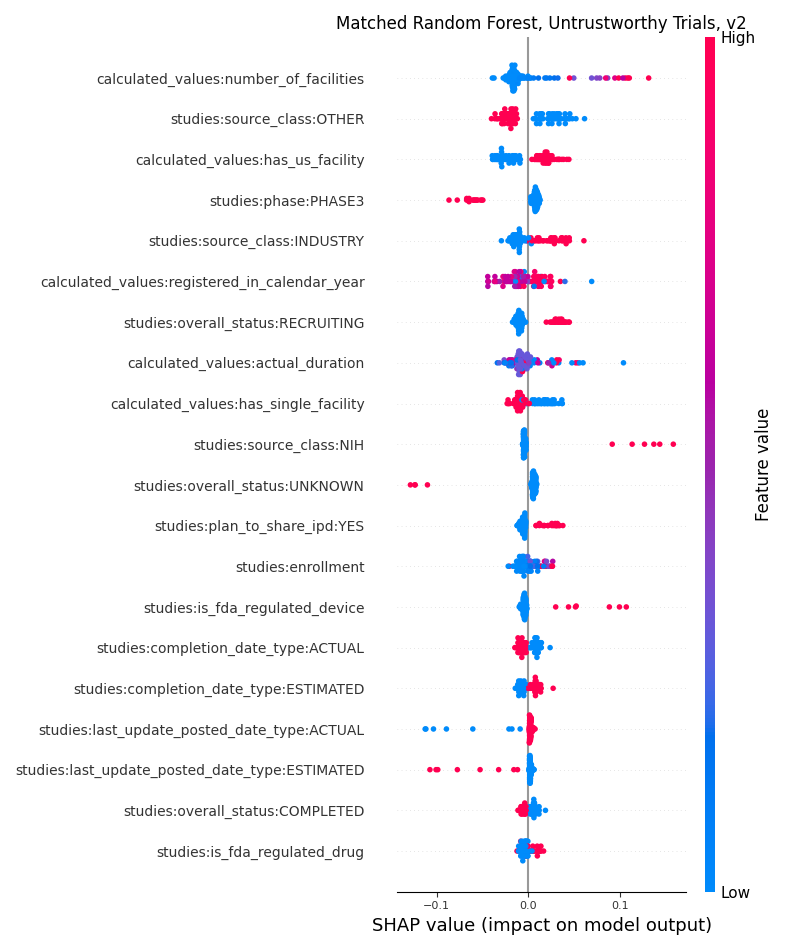
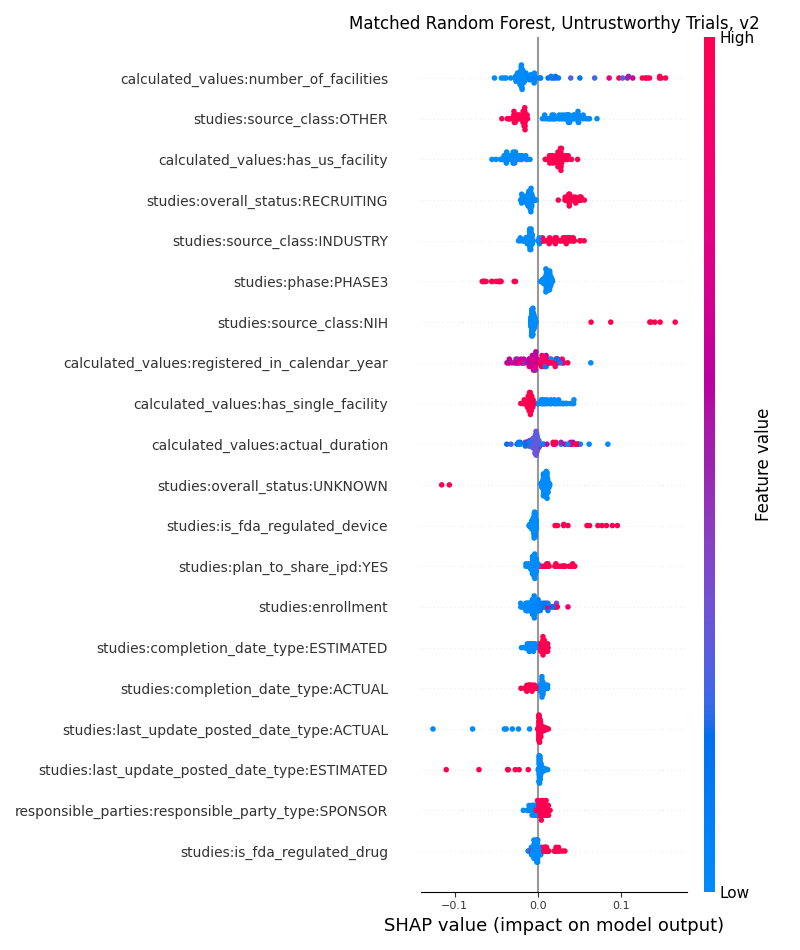
Updated SHAP plots with new (full) training data

diff --git a/ml/label_featureTable.py b/ml/label_featureTable.py
@@ -11,7 +11,7 @@ import random
 # Load the feature table
 df = pd.read_pickle("featureTable.pkl")
 
-
+print(f"Length of featureTable Original: {len(df)}")
 # Load lists of "untrustworthy" trial NCTs: 
 # - Discrepant trials
 # - Retracted trials (PubMed and ClinicalTrials.gov)
@@ -33,7 +33,7 @@ print(f" length of rwatch trials: {len(rwatch_nctids)}")
 # Combine all untrustworthy trials into a single set using union
 all_ncts_1 = set(discrepant_nctids) | set(retracted_pm_nctids) | set(stability_nctids) | set(retracted_ct_nctids) | set(rwatch_nctids)
 
-print(f" length of untrustworthy trials: {len(all_ncts_1)}") #11,848 currently....
+print(f" length of untrustworthy trials: {len(all_ncts_1)}") #13,170 currently....
 
 # Label the feature table
 # - 1 = untrustworthy (case)
@@ -52,20 +52,11 @@ print(f"Number of trials labeled cases:{len(cases_df)}")
 
 cases_df.to_pickle("cases_df.pkl")
 
-# Extract trials without a label (NaN) to use as production/unlabeled set
-# note... is this too many? where are trials labeled 0? 
-df_production = df[df['label'].isna()].copy()
-
-df_production.to_pickle("production.pkl")
-
-print(df_production.shape)
-
 
 # Investigating where the 8 missing NCTs are...
 missing_ncts = all_ncts_1 - set(df['nct_id'])
 print(f"Missing NCTS: {missing_ncts}")
 print(len(missing_ncts))  
-
 
 missing_in_rwatch = missing_ncts.intersection(set(rwatch_nctids))
 print("Missing NCTs that are in rwatch_nctids:", missing_in_rwatch)

diff --git a/ml/random_forest.py b/ml/random_forest.py
@@ -29,7 +29,7 @@ y = y[mask].astype(int)
 empty_cols = X.columns[X.isna().all()]
 print("Dropping empty columns from full dataset:", empty_cols.tolist())
 X = X.drop(columns=empty_cols)
-# X = X.drop(columns=['studies:is_ppsd'])
+X = X.drop(columns=['studies:fdaaa801_violation'])
 #splitting into train/test
 X_train, X_test, y_train, y_test = train_test_split(X, y, test_size=0.2, random_state=36)
 
@@ -131,8 +131,8 @@ plt.close()
 
 production = pd.read_pickle("production.pkl")
 
-X_prod = production.drop(columns=["nct_id","studies:is_ppsd", "label"] + empty_cols.tolist())
-X_prod = X_prod.drop(columns=X_prod.columns[X_prod.isna().all()], errors='ignore')
+X_prod = production.drop(columns=["nct_id", "label"] + empty_cols.tolist(),  errors='ignore')
+X_prod = X_prod.drop(columns=['studies:fdaaa801_violation'], errors='ignore')
 
 # Prediction
 prod_preds = rf_pipeline.predict(X_prod)
@@ -144,7 +144,7 @@ production["prob_0"] = prod_pred_probs[:, 0]
 production["prob_1"] = prod_pred_probs[:, 1]
 
 # Export
-production.to_pickle("rf_production_predictions.pkl")
-production.to_csv("rf_production_predictions.csv", index=False)
+production.to_pickle("production_predictions/rf_production_predictions2.pkl")
+production.to_csv("production_predictions/rf_production_predictions2.csv", index=False)
 
 

diff --git a/ml/reading_matched.py b/ml/reading_matched.py
@@ -3,7 +3,7 @@ import pandas as pd
 import pickle as pkl
 
 #file_path = "/15TB_2/gglusman/clinicaltrials/matched_controls3.txt" Old, pre adding in more retracted trials to training
-file_path = "matched_controls3.txt"
+file_path = "/15TB_2/gglusman/clinicaltrials/matched_controls3.txt"
 
 df = pd.read_csv(file_path, sep="\t", dtype=str)
 

diff --git a/stability_transformation/filtered_dist_numfeatures.py b/stability_transformation/filtered_dist_numfeatures.py
@@ -72,3 +72,4 @@ print(trials_above_cutoff)
 
 trials_above_cutoff.to_pickle("trials_above_cutoff4.pkl")
 
+ 
